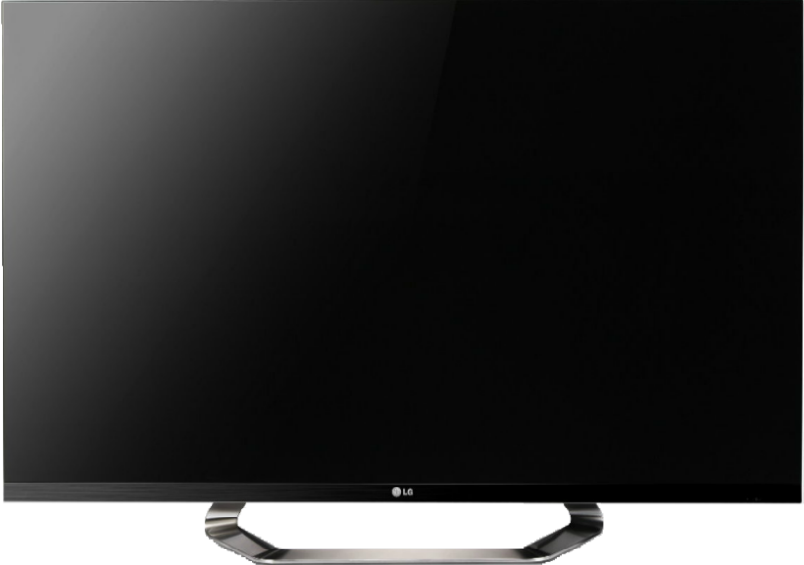
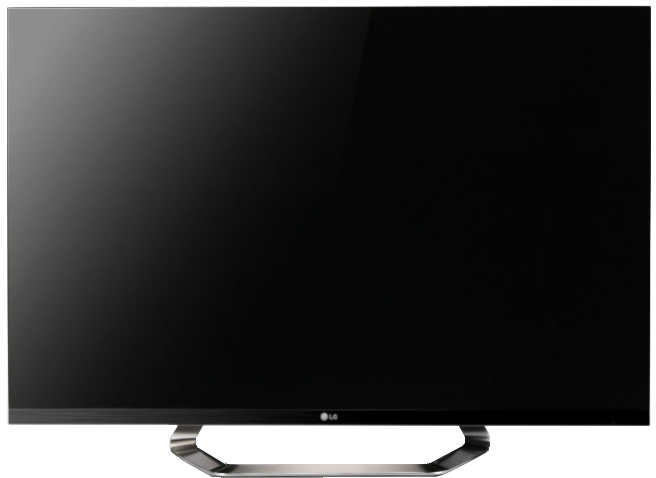
Changed TV device skin

Changed region(s): [[0.0, 0.0, 1.0, 0.9079], [0.2439, 0.8787, 0.7622, 1.0], [0.4878, 0.8494, 0.5183, 0.8787]]

diff --git a/lib/client/devices/Obigo-TV.js b/lib/client/devices/Obigo-TV.js
@@ -34,13 +34,13 @@ module.exports = {
     ],
 
     "screen": {
-        "width": 480,
-        "height": 800
+        "width": 800,
+        "height": 1280
     },
     "viewPort": {
         "landscape": {
-            "width": 800,
-            "height": 480,
+            "width": 1280,
+            "height": 800,
             "paddingTop": 0,
             "paddingLeft": 0
         }
@@ -51,4 +51,7 @@ module.exports = {
     "ppi": 253,
     "userAgent": " ",
     "platforms": ["web", "Smart-TV"]
+    "mediaQueryEmulation": {
+        "-webkit-device-pixel-ratio": 2
+    }
 };

diff --git a/lib/client/devices/Obigo-TV/skin.css b/lib/client/devices/Obigo-TV/skin.css
@@ -17,15 +17,15 @@
     Obigo-TV */
 
 .viewport-wrapper-landscape-Obigo-TV {
-    width: 800px;
-    height: 480px;
+    width: 640px;
+    height: 400px;
     border: none;
 }
 .device-wrapper-landscape-Obigo-TV {
     position: relative;
-    padding: 4px 0 0 4px;
-    width: 804px;
-    height: 565px;
+    padding: 10px 0 0 9px;
+    width: 656px;
+    height: 478px;
     margin: 0 auto;
     border: none;
     -webkit-box-shadow: none;

diff --git a/lib/client/devices/GalaxyNote10.js b/lib/client/devices/GalaxyNote10.js
@@ -52,7 +52,7 @@ module.exports = {
         }
     },
 
-    "defaultOrientation": "portrait",
+    "defaultOrientation": "landscape",
 
     "ppi": 253,
     "userAgent": "",
